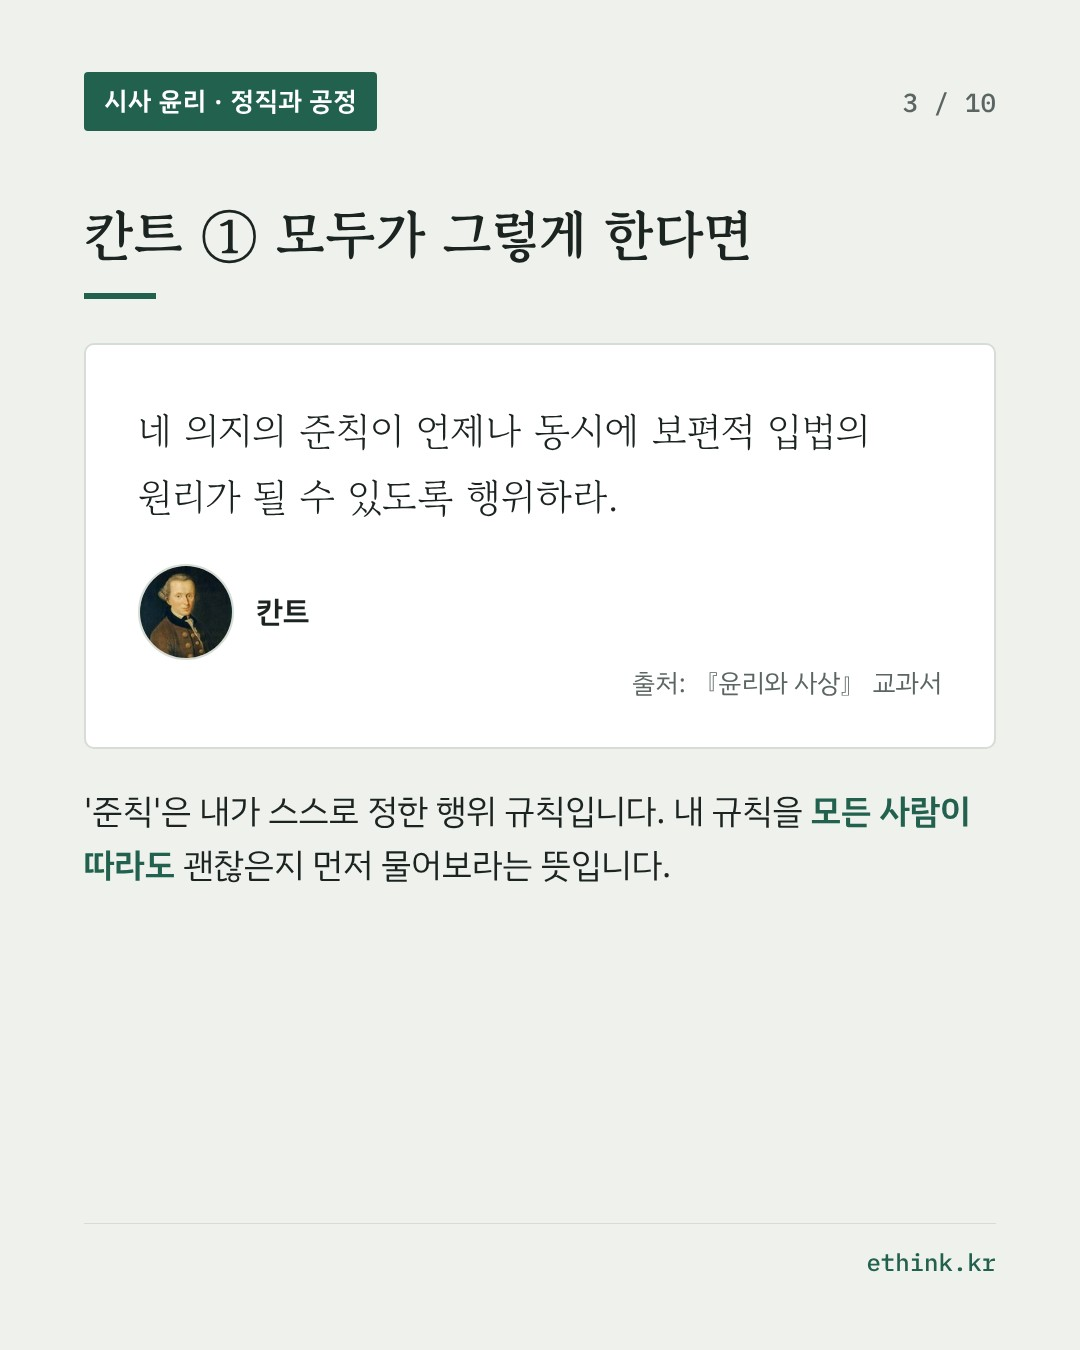
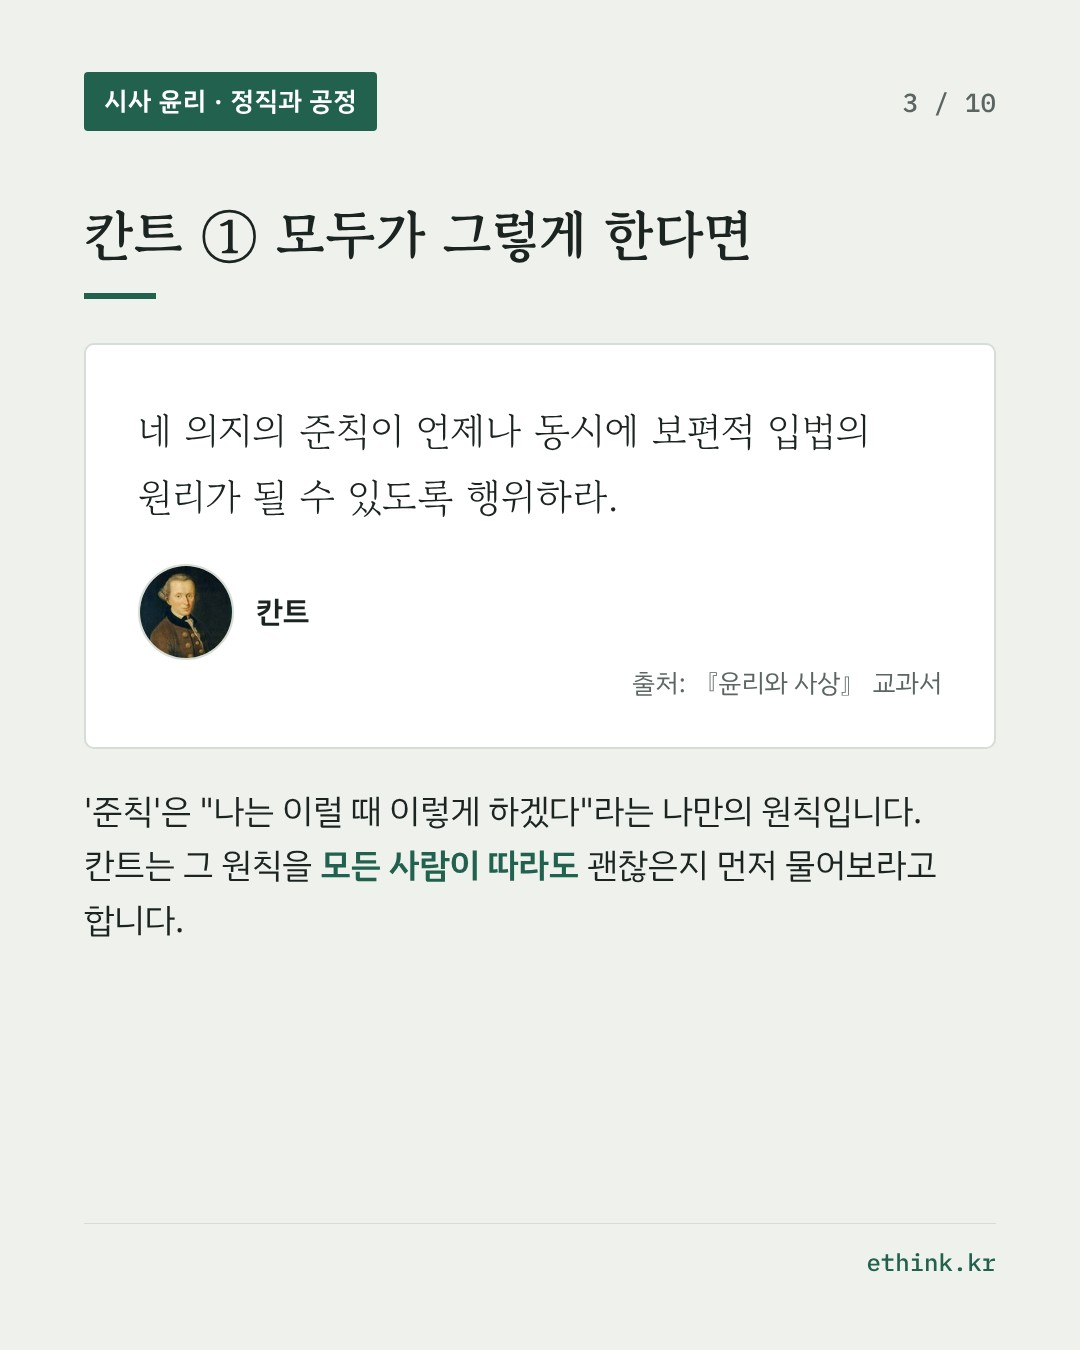
2026-10-27 초안: 재형 님 문체로 다시 쓰기, 지침에 문체 다듬기 단계·'갈라진다' 지양 추가
Claude-Session: https://claude.ai/code/session_015bQvLW38M9G43q7XUxVD63

Changed region(s): [[0.0611, 0.5911, 0.9167, 0.7156]]

diff --git a/_items/2026-10-27/1.md b/_items/2026-10-27/1.md
@@ -5,7 +5,7 @@ section: 정직과 공정
 kicker: 국내 · 10월 15일 수능 유의사항 공개
 title: 감독이 닿지 않아도 지켜야 하는 규칙, 수능 AI 안경 부정행위
 question: 들키지 않는다면, AI의 도움을 받아 시험을 쳐도 되는가?
-caution: 연세대 논술에서 적발된 수험생에 대한 조치는 아직 정해지지 않았고, 개별 수험생을 비난하는 글이 아닙니다. 수능을 앞둔 학생에게 부정행위를 하고 싶었던 경험이나 주변 사례를 말하게 하지 않습니다. 감독 강화가 필요한지, 감독관과 수험생의 부담은 어떻게 나눌지도 함께 다룹니다.
+caution: 연세대 논술에서 적발된 수험생에 대한 조치는 아직 정해지지 않았습니다. 특정 수험생을 비난하는 데 머물지 말고, 시험 규칙과 감독의 한계를 함께 다룹니다. 수능을 앞둔 학생에게 부정행위를 하고 싶었던 경험이나 주변 사례를 말하게 하지 않습니다.
 subjects: [현대사회와 윤리 · 직업 생활과 윤리 · 정직과 공정, 윤리와 사상 · 서양 윤리 사상, 윤리와 사상 · 동양 윤리 사상, 인문학과 윤리 · 동양의 인간관]
 lenses: [칸트 · 보편화 가능성과 거짓 약속, 유교 · 신독과 자기를 속이지 않는 일]
 sources:
@@ -23,32 +23,32 @@ og_image: /assets/og/2026-10-27-1.jpg
 ---
 ##### 무슨 일이 있었나
 
-2027학년도 수능은 11월 19일에 치러집니다. 한국교육과정평가원은 10월 15일 수험생 유의사항을 공개하면서 **스마트안경을 시험장 반입 금지 물품**으로 분명히 적었습니다. 스마트안경에는 작은 카메라와 마이크, 스피커가 들어 있고, AI 서비스와 연결해 안경 렌즈에 답을 띄울 수 있는 제품도 있습니다.
+올해 수능은 11월 19일입니다. 한국교육과정평가원은 10월 15일 수험생 유의사항을 공개하면서 스마트안경을 반입 금지 물품으로 명시했습니다. 스마트안경에는 작은 카메라와 마이크, 스피커가 들어 있습니다. AI 서비스와 연결해 렌즈에 답을 띄우는 제품도 있습니다.
 
-규정은 단계별로 다릅니다.
+규정은 이렇습니다.
 
-- 시험 시작 전에 감독관에게 내면 문제없이 돌려받습니다.
-- 가져왔는데 내지 않았다면 그해 시험이 무효가 됩니다.
-- 시험 중에 쓰고 있었다면 실제로 썼는지와 상관없이 중대한 부정행위입니다. 그해 시험이 무효가 되고, 다음 해 수능에도 응시할 수 없습니다.
-- 감독관이 확인을 요청했는데 거부해도 같은 제재를 받을 수 있습니다. 확인을 요청받으면 안경을 벗어 책상 위에 올려야 합니다.
+- 시험 시작 전에 감독관에게 내면 시험이 끝난 뒤 돌려받습니다.
+- 가져와서 내지 않으면 그해 시험이 무효가 됩니다.
+- 시험 중에 쓰고 있으면 실제로 썼는지와 상관없이 중대한 부정행위입니다. 그해 시험이 무효가 되고, 다음 해 수능도 볼 수 없습니다.
+- 감독관이 확인을 요청하면 안경을 벗어 책상 위에 올려야 합니다. 거부하면 쓰고 있던 것과 같은 제재를 받을 수 있습니다.
 
-이런 규정이 나온 것은 올해 적발이 이어졌기 때문입니다. 5월에 토익과 자격시험에서 스마트안경을 쓴 응시자가 적발되었고, 10월 3일 서울시립대 논술과 10월 10일 연세대 논술에서도 스마트안경을 쓴 수험생이 나왔습니다. 서울시립대는 해당 수험생을 퇴실시키고 3년 동안 응시를 제한했습니다. 연세대 수험생은 시험 전 확인 때는 일반 안경을 썼다가 시험이 시작된 뒤 스마트안경으로 바꿔 썼다고 합니다. 연세대는 이 수험생에 대한 조치를 아직 논의 중이라고 밝혔습니다.
+올해 들어 적발이 이어졌습니다. 5월에는 토익과 국가자격시험에서, 10월에는 대학 논술 시험장에서 스마트안경이 나왔습니다. 10월 3일 서울시립대는 적발한 수험생을 퇴실시키고 3년 동안 응시를 제한했습니다. 10월 10일 연세대에서 적발된 수험생은 시험 전 확인 때 일반 안경을 썼다가, 시험이 시작되자 스마트안경으로 바꿔 썼습니다. 연세대는 이 수험생에 대한 조치를 아직 논의하고 있습니다.
 
-현장의 걱정도 있습니다. 중등교사노동조합은 감독관에게 안경 확인이라는 일이 늘어나니 지원 인력을 확보하고, 의심스러운 상황에서 누가 어떤 절차로 판단하는지 분명히 하라고 요구했습니다.
+감독관도 걱정이 많습니다. 중등교사노동조합은 안경 확인이라는 일이 새로 생긴 만큼 지원 인력을 늘리고, 의심스러운 상황에서 누가 어떤 절차로 판단하는지 정해 달라고 요구했습니다.
 
 ##### 왜 윤리 문제인가
 
-시험은 같은 규칙 아래에서 각자의 실력을 견줍니다. 한 명이 몰래 AI의 도움을 받으면, 규칙을 지킨 사람들이 손해를 봅니다. 그래서 반입 금지와 감독은 필요합니다.
+시험은 같은 규칙 아래에서 각자의 실력을 견주는 제도입니다. 누군가 몰래 AI의 도움을 받으면 규칙을 지킨 수험생이 손해를 봅니다. 반입 금지와 감독이 필요한 까닭입니다.
 
-하지만 감독이 모든 것을 막지는 못합니다. 기기는 점점 작아지고, 연세대 사례처럼 확인 시점만 피하는 방법도 있습니다. 검사를 늘릴수록 감독관과 수험생의 부담도 커집니다. 수험생에게는 안경을 벗으라는 요구가 시험에 집중하는 데 방해가 될 수 있습니다.
+그런데 감독으로 모든 것을 막을 수 있을까요? 기기는 점점 작아지고, 연세대 사례처럼 확인하는 순간만 피하는 방법도 있습니다. 검사를 늘리면 감독관의 일이 늘고, 시험에 집중해야 할 수험생도 불편해집니다. 감독을 아무리 촘촘하게 해도 빈틈은 남습니다.
 
-그래서 이런 질문이 남습니다. **감독이 닿지 않는 곳이 생기면, 규칙을 지킬 이유도 사라질까요?** 규칙을 어기는 사람에게 필요한 것은 더 촘촘한 감시만이 아닙니다. 왜 이 규칙을 지켜야 하는지 스스로 납득하는 일도 필요합니다. 이 물음에 칸트는 '모두가 그렇게 해도 되는가'로 답하고, 유교는 '홀로 있을 때 자신을 속이지 않는 일'로 답합니다.
+그렇다면 물어야 합니다. 감독이 닿지 않는 곳에서도 규칙을 지켜야 할까요? 지켜야 한다면 그 이유는 무엇일까요? 칸트와 유교는 이 물음에 오래전부터 답해 왔습니다.
 
 ##### 칸트로 읽기: 모두가 그렇게 한다면
 
-칸트는 행동하기 전에 자신의 행위 규칙을 스스로 물어보라고 합니다. 이 행위 규칙을 '준칙'이라고 합니다. 준칙은 "나는 이런 상황에서는 이렇게 하겠다"라는 자기만의 원칙입니다. 그리고 준칙을 모든 사람이 따르는 법칙이라고 상상해 보라고 합니다. 모든 사람이 따라도 문제가 없으면 그 준칙은 도덕적으로 허용되고, 모두가 따르면 스스로 무너지는 준칙은 허용되지 않는다는 것입니다.
+칸트는 행동하기 전에 자기 행위 규칙부터 살펴보라고 합니다. 칸트는 이것을 '준칙'이라고 불렀습니다. "나는 이런 상황에서는 이렇게 하겠다"라는 나만의 원칙입니다. 그리고 그 준칙을 모든 사람이 따른다고 상상해 보라고 합니다. 모두가 따라도 문제가 없다면 해도 되는 행동이고, 모두가 따르는 순간 무너지는 준칙이라면 해서는 안 되는 행동입니다.
 
-『윤리와 사상』 교과서는 이 원칙을 이렇게 소개합니다.
+『윤리와 사상』 교과서에 실린 칸트의 말은 이렇습니다.
 
 <figure class="src">
 <blockquote>
@@ -57,7 +57,7 @@ og_image: /assets/og/2026-10-27-1.jpg
 <figcaption><span class="who">칸트</span><span class="from">출처: 『윤리와 사상』 교과서</span></figcaption>
 </figure>
 
-칸트는 『윤리형이상학 정초』에서 '거짓 약속'을 예로 듭니다. 곤경에 빠진 사람이 갚을 생각 없이 돈을 빌리려고 약속하는 경우입니다. 칸트는 자신에게 이렇게 묻습니다.
+칸트가 『윤리형이상학 정초』에서 드는 예는 '거짓 약속'입니다. 돈이 급한 사람이 갚을 생각도 없이 꼭 갚겠다고 약속하고 돈을 빌리는 경우입니다. 칸트는 스스로에게 묻습니다.
 
 <figure class="src">
 <blockquote>
@@ -66,7 +66,7 @@ og_image: /assets/og/2026-10-27-1.jpg
 <figcaption><span class="who">칸트</span><span class="from">출처: 칸트, 『윤리형이상학 정초』(백종현 옮김, 아카넷)</span></figcaption>
 </figure>
 
-그리고 이렇게 결론을 내립니다.
+답은 바로 나옵니다.
 
 <figure class="src">
 <blockquote>
@@ -75,17 +75,17 @@ og_image: /assets/og/2026-10-27-1.jpg
 <figcaption><span class="who">칸트</span><span class="from">출처: 칸트, 『윤리형이상학 정초』(백종현 옮김, 아카넷)</span></figcaption>
 </figure>
 
-여기서 '의욕한다'는 어떤 일이 그렇게 되기를 진심으로 바란다는 뜻입니다. 모두가 필요할 때 거짓 약속을 한다면 사람들은 더 이상 약속을 믿지 않습니다. 그러면 거짓 약속을 해서 얻으려던 이익도 사라집니다. 거짓 약속은 남들이 약속을 믿어 준다는 전제 위에서만 통하기 때문입니다.
+'의욕한다'는 그렇게 되기를 진심으로 바란다는 말입니다. 급할 때마다 누구나 거짓 약속을 한다면, 이제 아무도 약속을 믿지 않습니다. 믿어 주는 사람이 없으니 거짓 약속으로 돈을 빌릴 수도 없습니다. 거짓 약속은 다른 사람들이 약속을 믿어 줄 때만 통합니다.
 
-칸트가 시험 부정행위를 직접 다룬 것은 아닙니다. 이 논증을 이번 사건에 적용하면 이렇게 됩니다. 몰래 AI 안경을 쓰는 사람의 준칙은 "들키지 않는다면, 시험 규칙을 어기고 AI의 도움을 받겠다"입니다. 모든 수험생이 이 준칙을 따른다면 어떻게 될까요? 점수는 더 이상 각자의 실력을 보여 주지 못합니다. 시험이라는 제도가 의미를 잃고, 부정행위로 얻으려던 이익도 함께 사라집니다. 이 준칙이 통하려면 다른 사람은 규칙을 지켜 주어야 합니다. 칸트의 거짓 약속과 같은 구조입니다. 자기만 예외로 두는 준칙은 모두에게 허용될 수 없습니다.
+칸트가 시험 부정행위를 직접 다룬 것은 아닙니다. 다만 이 논증을 이번 일에 그대로 가져와 볼 수 있습니다. 몰래 AI 안경을 쓰는 수험생의 준칙은 "들키지 않는다면 시험 규칙을 어기고 AI의 도움을 받겠다"입니다. 모든 수험생이 이 준칙을 따르면 어떻게 될까요? 점수로는 더 이상 누구의 실력도 알 수 없습니다. 시험은 의미를 잃고, 부정행위로 얻으려던 높은 점수도 쓸모가 없어집니다. 즉, 이 준칙은 나만 어기고 다른 사람은 지켜 줄 때만 통하는 준칙입니다. 칸트의 기준으로는 허용될 수 없습니다.
 
-이 판단은 감독이 있든 없든 달라지지 않습니다. 몰래 쓰면 안 되는 이유는 걸릴 위험에 있지 않습니다.
+여기까지 따라오면 감독이 있는지 없는지는 판단에 끼어들지 못합니다. 걸릴까 봐 안 하는 것과, 해서는 안 되는 일이라서 안 하는 것은 다릅니다.
 
-물론 이 논증에는 전제가 있습니다. 시험이 혼자 푸는 실력을 재려는 것이고, AI 사용을 금지한다는 규칙이 있다는 전제입니다. AI를 쓰는 것을 허용하는 시험이라면 이 논증은 적용되지 않습니다. 그래서 규칙의 목적이 무엇인지 따지는 일도 필요합니다.
+한 가지는 짚어 둘 필요가 있습니다. 이 논증은 시험이 혼자 푸는 실력을 재고, 규칙이 AI 사용을 금지한다는 전제 위에 서 있습니다. AI를 쓰도록 허용한 시험이라면 이야기가 달라집니다. 규칙이 무엇을 위해 있는지도 함께 따져 봐야 합니다.
 
 ##### 유교로 읽기: 홀로 있을 때 삼가기
 
-유교에도 감독이 없는 곳에서의 태도를 말하는 개념이 있습니다. 『대학』의 '신독(愼獨)'입니다. 『대학』은 '뜻을 정성스럽게 한다'는 것이 무슨 뜻인지 이렇게 설명합니다.
+유교에도 아무도 보지 않을 때의 태도를 말하는 개념이 있습니다. 『대학』의 '신독(愼獨)'입니다. 『대학』은 뜻을 정성스럽게 한다는 것이 무엇인지 이렇게 설명합니다.
 
 <figure class="src">
 <blockquote>
@@ -94,7 +94,7 @@ og_image: /assets/og/2026-10-27-1.jpg
 <figcaption><span class="from">출처: 『대학』(이기동 역해, 성균관대학교출판부)</span></figcaption>
 </figure>
 
-나쁜 냄새는 누가 가르쳐 주지 않아도 저절로 싫습니다. 계산해서 싫어하는 것이 아닙니다. 이 비유는 올바른 마음도 이렇게 계산 없이 저절로 우러나야 한다는 뜻을 담고 있습니다. 남이 볼 때만 바르게 보이려는 사람은 자기를 속이는 사람입니다. 그래서 '홀로 있음을 삼간다'는 말은, 남이 모르는 때일수록 자기 마음을 속이지 않도록 조심한다는 뜻입니다.
+나쁜 냄새는 누가 가르쳐 주지 않아도 싫습니다. 따져 보고 싫어하는 것도 아닙니다. 『대학』은 옳은 일을 하려는 마음도 이처럼 저절로 우러나야 한다고 봅니다. 남이 볼 때만 바르게 행동한다면 남보다 먼저 자기 자신을 속이는 셈입니다. '홀로 있음을 삼간다'는 말은 남이 모르는 때일수록 더 조심한다는 뜻입니다.
 
 『인문학과 윤리』 교과서는 신독을 이렇게 풀이합니다.
 
@@ -105,7 +105,7 @@ og_image: /assets/og/2026-10-27-1.jpg
 <figcaption><span class="from">출처: 『인문학과 윤리』(길벗) 17쪽</span></figcaption>
 </figure>
 
-시험장에는 감독관이 있지만, 안경 속의 작은 화면은 감독관이 쉽게 볼 수 없습니다. 그 순간이 바로 '홀로 있는 때'입니다. 신독의 눈으로 보면 부정행위는 규칙을 어기는 일이면서 동시에 자기를 속이는 일입니다. 점수는 남을 속이고 얻었더라도, 내가 푼 것이 아니라는 사실은 나만 알고 있기 때문입니다.
+시험장에는 감독관이 있습니다. 하지만 안경 렌즈 속 작은 화면은 감독관 눈에 보이지 않습니다. 수험생은 감독관과 같은 교실에 있어도 그 화면 앞에서는 홀로 있는 셈입니다. 신독의 눈으로 보면 부정행위는 규칙을 어기는 일이면서 자기를 속이는 일입니다. 남은 속일 수 있어도, 그 점수가 내 실력이 아니라는 사실은 나 자신이 압니다.
 
 ##### 수업에서 쓰는 법
 
@@ -144,9 +144,9 @@ og_image: /assets/og/2026-10-27-1.jpg
 </tbody>
 </table>
 
-첫 줄은 예시로 보여 주고, 나머지 칸은 모둠이 채웁니다. 한계를 적는 데서 그치지 않고 그 한계를 줄일 방법까지 찾게 합니다.
+첫 줄은 예시로 보여 주고, 나머지 칸은 모둠이 채웁니다. 한계를 적었으면 그 한계를 줄일 방법까지 찾게 합니다.
 
-토론에서는 서로의 방안에 질문하게 합니다. 감독을 강조한 모둠에는 "감독을 피하는 경우는 어떻게 줄이나요?"라고, 납득을 강조한 모둠에는 "납득하지 못한 사람은 어떻게 막나요?"라고 묻습니다. 두 모둠 모두에게는 "확인 과정에서 억울한 수험생이 생기면 어떻게 하나요?"라고 묻습니다. 평가할 것은 어느 쪽을 골랐는지가 아니라, 근거와 한계, 보완 방법을 얼마나 구체적으로 설명했는지입니다.
+토론에서는 서로의 방안에 질문하게 합니다. 감독을 강조한 모둠에는 "감독을 피하는 경우는 어떻게 줄이나요?"라고, 납득을 강조한 모둠에는 "납득하지 못한 사람은 어떻게 막나요?"라고 묻습니다. 두 모둠 모두에게는 "확인 과정에서 억울한 수험생이 생기면 어떻게 하나요?"라고 묻습니다. 평가는 근거와 한계, 보완 방법을 얼마나 구체적으로 설명했는지를 봅니다. 어느 쪽을 골랐는지는 점수에 넣지 않습니다.
 
 이 사례로 탐구 보고서를 쓰려는 학생에게는 세 가지 주제를 권합니다. 첫째, 시험에서 AI 기기를 금지하는 이유와, AI를 허용하는 시험에서 평가해야 할 것이 무엇인지 비교하는 주제입니다. 둘째, 칸트의 보편화 가능성 검사가 부정행위뿐 아니라 새치기, 표절 같은 다른 경우에도 쓰일 수 있는지 따져 보는 주제입니다. 셋째, 제재 수준을 정할 때 부정행위의 의도와 결과, 시험의 공정성을 어떻게 함께 고려해야 하는지 살피는 주제입니다.
 
